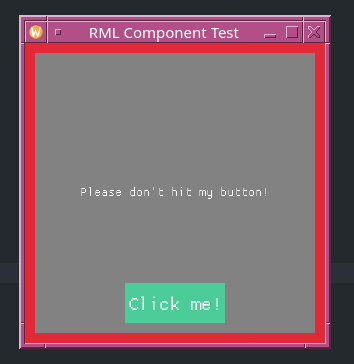
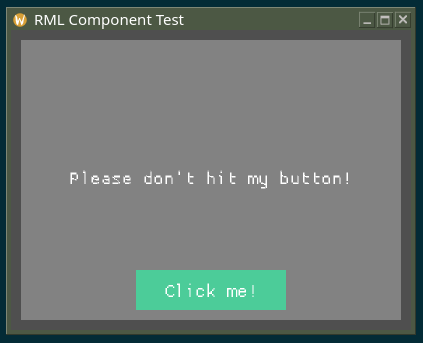
update readme

diff --git a/rml_example/src/outch_test.rs b/rml_example/src/outch_test.rs
@@ -13,7 +13,7 @@ use std::collections::HashMap;
 fn window_conf() -> Conf {
     Conf {
         window_title: "RML Component Test".to_owned(),
-        window_width: 300,
+        window_width: 400,
         window_height: 300,
         window_resizable: true,
         fullscreen: false,
@@ -35,6 +35,7 @@ async fn main() {
             id: root
             anchors: fill
             string text: "Please don't hit my button!"
+            color color: { DARKGRAY }
 
             signal click
 
@@ -52,7 +53,7 @@ async fn main() {
                 anchors: center
                 string text: { $.root.text }
                 color color: { WHITE }
-                font_size: 16
+                font_size: 24
             }
 
             UI::Button {

diff --git a/README.md b/README.md
@@ -23,7 +23,7 @@ let mut engine = rml!(
     Node {
         id: root
         anchors: fill
-        text: "Please don't hit my button!"
+        string text: "Please don't hit my button!"
 
         signal click
 
@@ -34,13 +34,13 @@ let mut engine = rml!(
         Rectangle {
             anchors: fill
             margins: 10
-            color: { GRAY }
+            color color: { GRAY }
         }
         
         Text {
             anchors: center
             text: { $.root.text }
-            color: { WHITE }
+            color color: { WHITE }
             font_size: 16
         }
 
@@ -93,11 +93,13 @@ The parts listed below barely works for some.
 
 * Implement rapid setter / getter $ macro ( $.draggable.x = new_x; ) there is some limitations but it's a start ✅
 
+* Rework the rapid access syntax to get rid of the need for the $ and :f32 :string etc syntax ✅
+
+* Adding optionnal typing for properties, used to handle the $ syntax but may be forced in futur ✅
+
 ## Planned Features / TODO (order by interest)
 
 * Better functions declaration (ability to return values)
-
-* Rework the rapid access syntax to get rid of the need for the $ and :f32 :string etc syntax
 
 * Extend import logic (multiple imports per file, global import at root node)
 
